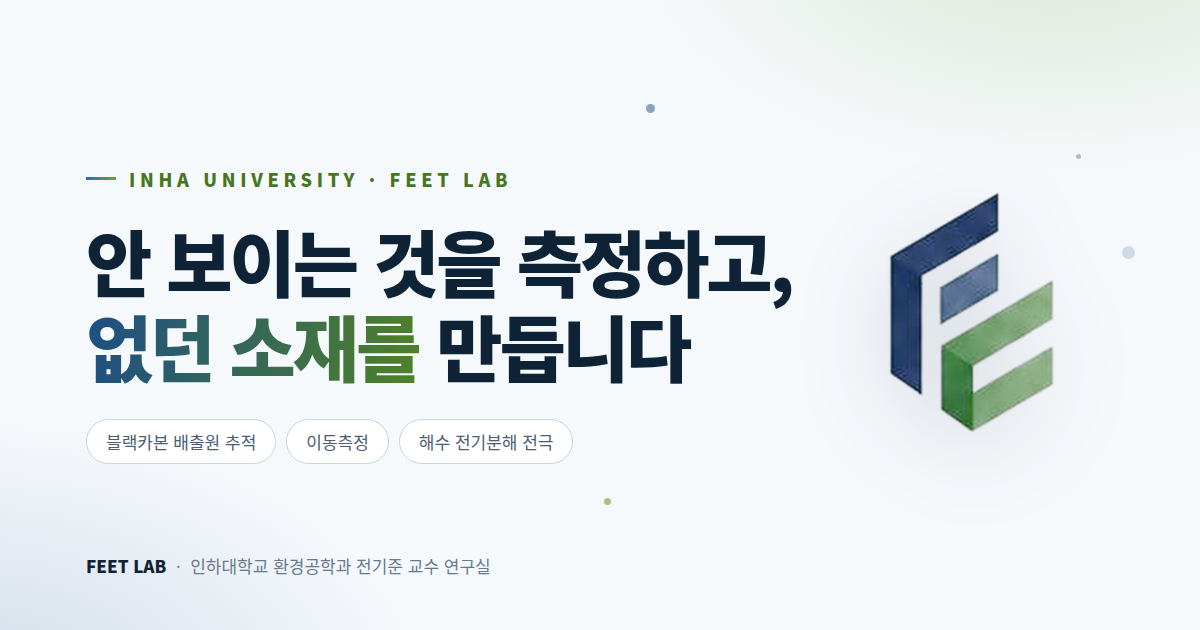
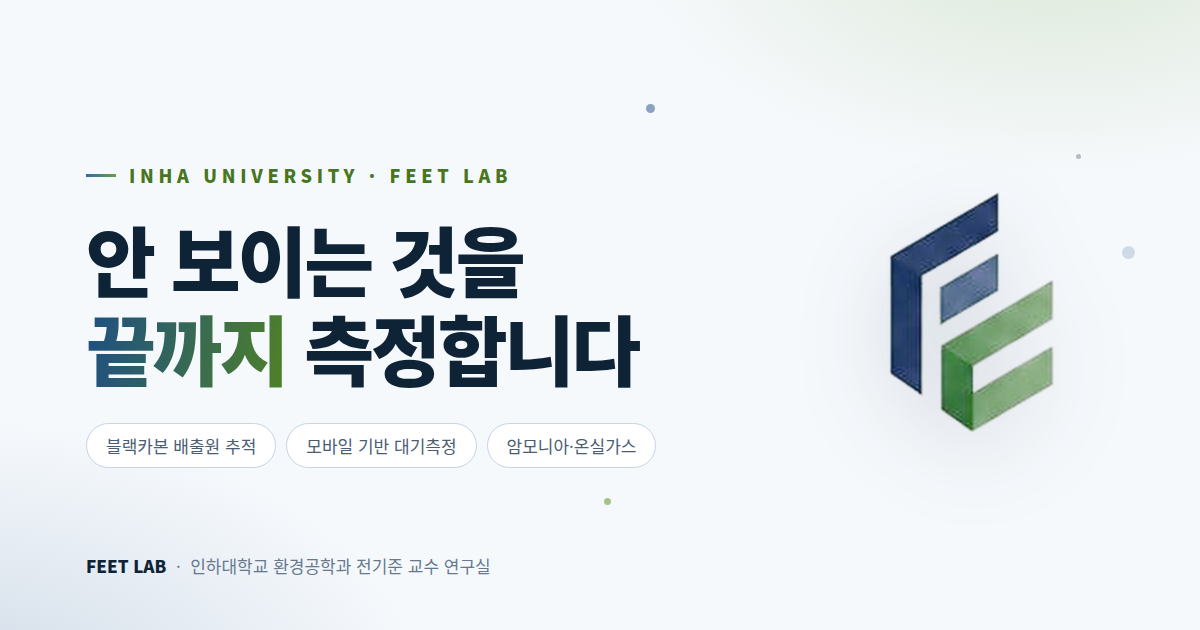
Add files via upload

diff --git a/index.html b/index.html
@@ -4,10 +4,10 @@
 <meta charset="UTF-8">
 <meta name="viewport" content="width=device-width, initial-scale=1.0">
 <title>FEET Lab — 인하대학교 전기준 교수 연구실</title>
-<meta name="description" content="인하대학교 FEET Lab — 대기 미세입자 측정·추적 기술과 에너지·환경 소재를 연구합니다. 블랙카본 배출원 추적, 차량·드론 이동측정, 해수 전기분해 전극 개발.">
+<meta name="description" content="인하대학교 FEET Lab — 대기 미세입자를 측정하고 추적하는 연구실. 블랙카본 배출원 추적, 모바일 기반 대기측정, 암모니아·온실가스 고해상도 측정.">
 <meta property="og:type" content="website">
 <meta property="og:title" content="FEET Lab — 인하대학교 전기준 교수 연구실">
-<meta property="og:description" content="대기 미세입자 측정부터 수소 생산 소재까지 — 인하대학교 환경공학과 FEET 연구실.">
+<meta property="og:description" content="공기 속 미세입자를 끝까지 추적하는 인하대학교 환경공학과 FEET 연구실.">
 <meta property="og:image" content="https://REPLACE-ME.github.io/feet-lab/images/og.png">
 <meta property="og:url" content="https://REPLACE-ME.github.io/feet-lab/">
 <link rel="icon" type="image/png" href="images/favicon.png">
@@ -46,9 +46,9 @@
     <div class="wrap hero-grid">
       <div>
         <p class="eyebrow">Inha University · FEET Lab</p>
-        <h1 class="h-xl">안 보이는 것을 측정하고,<br><span class="grad-txt">없던 소재를</span> 만듭니다</h1>
-        <p class="lead">대기 중 미세입자가 어디서 왔는지 추적하고, 물을 전기분해해 수소를 얻는 소재를 개발합니다.
-        인하대학교 환경공학과 FEET 연구실입니다.</p>
+        <h1 class="h-xl">안 보이는 것을<br><span class="grad-txt">끝까지</span> 측정합니다</h1>
+        <p class="lead">공기 속 미세입자가 어디서, 얼마나, 어떻게 움직이는지 추적합니다.
+        더 정확히 재는 기술을 직접 만드는 인하대학교 환경공학과 FEET 연구실입니다.</p>
         <div class="btns">
           <a class="btn btn-p" href="research.html">연구 둘러보기
             <svg viewBox="0 0 24 24" fill="none" stroke="currentColor" stroke-width="2.4" stroke-linecap="round" stroke-linejoin="round" aria-hidden="true"><path d="M5 12h13M13 6l6 6-6 6"/></svg></a>
@@ -64,8 +64,8 @@
     <div class="wrap hero-btm">
       <div class="hero-foot">
         <div><b>블랙카본</b>배출원 추적과 거동 규명</div>
-        <div><b>해수 전기분해</b>수소 생산용 전극 소재</div>
-        <div><b>이동측정</b>차량·드론 기반 대기 관측</div>
+        <div><b>모바일 기반 대기측정</b>이동형 플랫폼 실시간 관측</div>
+        <div><b>암모니아·온실가스</b>고해상도 측정 기술 국산화</div>
       </div>
       <p class="sub-note"><a href="https://spprmc.inha.ac.kr/" target="_blank" rel="noopener">수도권미세먼지연구관리센터</a>를 운영하고 있습니다</p>
     </div>
@@ -75,10 +75,10 @@
   <div class="kw" aria-hidden="true">
     <div class="kw-track">
       <ul>
-        <li>BLACK CARBON</li><li>PM2.5</li><li>AEROSOL</li><li>SERS</li><li>AMMONIA</li><li>GREENHOUSE GAS</li><li>ELECTROCATALYST</li><li>2D MATERIALS</li><li>WATER ELECTROLYSIS</li><li>ENV. SENSOR</li><li>FIELD MEASUREMENT</li><li>NANOPARTICLE</li>
+        <li>BLACK CARBON</li><li>PM2.5</li><li>AEROSOL</li><li>SERS</li><li>AMMONIA</li><li>GREENHOUSE GAS</li><li>ELECTROCATALYST</li><li>2D MATERIALS</li><li>WATER ELECTROLYSIS</li><li>ENV. SENSOR</li><li>MOBILE MONITORING</li><li>NANOPARTICLE</li>
       </ul>
       <ul>
-        <li>BLACK CARBON</li><li>PM2.5</li><li>AEROSOL</li><li>SERS</li><li>AMMONIA</li><li>GREENHOUSE GAS</li><li>ELECTROCATALYST</li><li>2D MATERIALS</li><li>WATER ELECTROLYSIS</li><li>ENV. SENSOR</li><li>FIELD MEASUREMENT</li><li>NANOPARTICLE</li>
+        <li>BLACK CARBON</li><li>PM2.5</li><li>AEROSOL</li><li>SERS</li><li>AMMONIA</li><li>GREENHOUSE GAS</li><li>ELECTROCATALYST</li><li>2D MATERIALS</li><li>WATER ELECTROLYSIS</li><li>ENV. SENSOR</li><li>MOBILE MONITORING</li><li>NANOPARTICLE</li>
       </ul>
     </div>
   </div>
@@ -89,23 +89,23 @@
       <div class="sec-head rv">
         <p class="eyebrow">What we do</p>
         <h2 id="what-h" class="h-lg">연구는 크게 두 갈래로 갑니다</h2>
-        <p>대기를 측정하는 연구와 소재를 만드는 연구. 달라 보이지만 질문은 하나입니다 — 공기와 에너지를 어떻게 더 깨끗하게 만들 것인가.</p>
+        <p>공기를 재는 연구가 중심이고, 거기서 나온 문제의식이 소재 연구로 이어집니다. 질문은 하나입니다 — 공기와 에너지를 어떻게 더 깨끗하게 만들 것인가.</p>
       </div>
       <div class="pillars">
         <a class="pillar rv" href="research.html#atmosphere">
           <span class="ico"><svg viewBox="0 0 24 24" fill="none" stroke="#1D4E86" stroke-width="1.8" stroke-linecap="round"><path d="M3 8h9a3 3 0 1 0-3-3"/><path d="M3 13h14a3 3 0 1 1-3 3"/><path d="M3 18h6"/><circle cx="18.5" cy="7.5" r="1.4" fill="#6BA03A" stroke="none"/></svg></span>
           <span class="en">Atmosphere</span>
           <h3>공기 속 입자를 추적합니다</h3>
-          <p>블랙카본이 어느 배출원에서 나와 어떻게 움직이는지 밝혀냅니다. 차량과 드론으로 달리며 측정하는 이동 관측, 암모니아·온실가스를 고해상도로 측정하는 기술도 직접 개발합니다.</p>
-          <span class="tags"><i>블랙카본</i><i>이동측정</i><i>암모니아·온실가스</i><i>나노입자 분석</i></span>
+          <p>블랙카본이 어느 배출원에서 나와 어떻게 움직이는지 밝혀냅니다. 이동형 플랫폼으로 현장을 돌며 재는 모바일 기반 대기측정, 암모니아·온실가스를 고해상도로 측정하는 기술도 직접 개발합니다.</p>
+          <span class="tags"><i>블랙카본</i><i>모바일 대기측정</i><i>암모니아·온실가스</i><i>나노입자 분석</i></span>
           <span class="go">자세히 보기 →</span>
         </a>
         <a class="pillar rv" href="research.html#material">
           <span class="ico"><svg viewBox="0 0 24 24" fill="none" stroke="#6BA03A" stroke-width="1.8" stroke-linecap="round" stroke-linejoin="round"><path d="M12 2 20.5 7v10L12 22 3.5 17V7L12 2z"/><circle cx="12" cy="12" r="2.6" stroke="#1D4E86"/><path d="M12 4.6v4.8M12 14.6v4.8" stroke="#1D4E86"/></svg></span>
           <span class="en">Material</span>
-          <h3>환경 문제를 푸는 소재를 만듭니다</h3>
-          <p>단일 원자 수준에서 2차원 소재의 구조를 조절해, 해수를 전기분해하는 전극과 값싼 촉매, 오염물질을 현장에서 감지하는 센서를 개발합니다.</p>
-          <span class="tags"><i>해수 전기분해</i><i>전해 촉매</i><i>2차원 소재</i><i>환경센서</i></span>
+          <h3>측정에서 소재 연구로 이어집니다</h3>
+          <p>현장에서 오염물질을 감지하는 센서, 물을 전기분해하는 전극 촉매와 2차원 소재. 재면서 만난 문제를 소재로 풀어보는 두 번째 갈래입니다.</p>
+          <span class="tags"><i>환경센서</i><i>전해 촉매</i><i>2차원 소재</i><i>해수 전기분해</i></span>
           <span class="go">자세히 보기 →</span>
         </a>
       </div>
@@ -139,7 +139,7 @@
         <article class="proj rv">
           <span class="yr">2026 – 2030</span>
           <h3>대기배출원의 효율적 통합관리를 위한 고정·이동형 측정 플랫폼 기술 개발</h3>
-          <p>고정식 관측소와 이동 측정 차량을 하나로 묶어 배출원을 통합 관리합니다.</p>
+          <p>고정식 관측소와 모바일 측정을 하나로 묶어 배출원을 통합 관리합니다.</p>
         </article>
         <article class="proj rv">
           <span class="yr">2026 – 2029</span>
@@ -183,7 +183,7 @@
         </a>
         <a class="pub-mini rv" href="https://doi.org/10.1016/j.atmosenv.2026.121807" target="_blank" rel="noopener">
           <span class="y">2026 · ATMOS. ENVIRON.</span>
-          <span class="jr">차량·드론을 이용한 VOC 추적 관리</span>
+          <span class="jr">모바일 기반 VOC 추적 관리</span>
           <span class="ti"><em>Cheonwoong Kang</em> 외 · <em>Ki-Joon Jeon</em> 교신</span>
         </a>
       </div>

diff --git a/assets/style.css b/assets/style.css
@@ -137,7 +137,7 @@ section{padding:clamp(72px,9.5vw,124px) 0;position:relative}
 .btn-p:hover{transform:translateY(-2px);filter:brightness(1.08);box-shadow:0 16px 36px -12px rgba(29,78,134,.8)}
 .btn-g{background:#fff;color:var(--deep);border:1px solid var(--line-2);box-shadow:var(--sh)}
 .btn-g:hover{border-color:var(--navy);color:var(--navy-d);transform:translateY(-2px)}
-.btn-w{background:#fff;color:var(--navy-d);box-shadow:0 10px 26px -12px rgba(15,35,55,.5)}
+.btn-w{background:#fff;color:var(--navy-d);box-shadow:0 10px 26px -12px rgba(15,35,55,.45)}
 .btn-w:hover{transform:translateY(-2px);box-shadow:0 16px 36px -14px rgba(15,35,55,.6)}
 
 /* ---------- 히어로 ---------- */
@@ -251,21 +251,21 @@ section{padding:clamp(72px,9.5vw,124px) 0;position:relative}
 /* ---------- 숫자 (딥 밴드) ---------- */
 .stats{
   background:
-    radial-gradient(700px 320px at 16% 0%,rgba(46,107,174,.35),transparent 62%),
-    radial-gradient(700px 320px at 84% 100%,rgba(107,160,58,.26),transparent 62%),
-    var(--deep);
-  color:var(--on-deep);
+    radial-gradient(760px 340px at 14% 0%,rgba(29,78,134,.10),transparent 62%),
+    radial-gradient(760px 340px at 86% 100%,rgba(107,160,58,.10),transparent 62%),
+    var(--bg-2);
+  border-block:1px solid var(--line);
 }
 .stats-grid{display:grid;grid-template-columns:repeat(4,1fr);gap:24px}
-.stats-grid>div{padding:6px 4px;border-left:1px solid rgba(255,255,255,.12)}
+.stats-grid>div{padding:6px 4px;border-left:1px solid var(--line-2)}
 .stats-grid>div:first-child{border-left:0}
 .stats b{
   font-family:var(--disp);font-size:clamp(2.3rem,5vw,3.4rem);font-weight:700;
   display:block;letter-spacing:-.03em;line-height:1;margin-bottom:11px;
-  background:linear-gradient(105deg,#8CC0F5,#B5DE86);-webkit-background-clip:text;background-clip:text;color:transparent;
+  background:var(--grad);-webkit-background-clip:text;background-clip:text;color:transparent;
 }
-.stats span{font-size:.89rem;color:#C3D5E6;display:block}
-.stats small{display:block;font-size:.75rem;color:#8AA3BC;margin-top:3px}
+.stats span{font-size:.89rem;color:var(--sub);display:block;font-weight:600}
+.stats small{display:block;font-size:.75rem;color:var(--dim);margin-top:3px;font-weight:400}
 @media (max-width:760px){.stats-grid{grid-template-columns:repeat(2,1fr);gap:28px 20px}.stats-grid>div:nth-child(odd){border-left:0}}
 
 /* ---------- 과제 카드 ---------- */
@@ -386,16 +386,16 @@ section{padding:clamp(72px,9.5vw,124px) 0;position:relative}
 .band .btn{position:relative;z-index:1}
 
 /* ---------- 푸터 ---------- */
-footer{background:var(--deep);color:#93A9BF;padding:60px 0 40px;font-size:.89rem}
+footer{background:var(--bg-2);border-top:1px solid var(--line);color:var(--dim);padding:60px 0 40px;font-size:.89rem}
 .foot-in{display:flex;justify-content:space-between;gap:34px;flex-wrap:wrap}
-.foot-brand{display:flex;align-items:center;gap:11px;color:#fff;margin-bottom:14px}
-.foot-brand img{width:32px;height:auto;background:#fff;border-radius:8px;padding:3px}
+.foot-brand{display:flex;align-items:center;gap:11px;color:var(--deep);margin-bottom:14px}
+.foot-brand img{width:32px;height:auto}
 .foot-brand b{font-family:var(--disp);font-size:1.06rem;letter-spacing:.07em}
-footer a{color:#BDD1E4;display:inline-block;padding:11px 0;transition:color .18s}
-footer a:hover{color:#fff}
+footer a{color:var(--navy-d);font-weight:600;display:inline-block;padding:11px 0;transition:color .18s}
+footer a:hover{color:var(--green-t)}
 .foot-nav{display:flex;gap:22px;flex-wrap:wrap}
 .foot-nav a{min-height:44px;display:inline-flex;align-items:center}
-.foot-base{margin-top:32px;padding-top:24px;border-top:1px solid rgba(255,255,255,.12);font-size:.79rem;color:#6D849B}
+.foot-base{margin-top:32px;padding-top:24px;border-top:1px solid var(--line-2);font-size:.79rem;color:var(--dim)}
 
 /* ---------- 서브페이지 히어로 ---------- */
 .page-hero{
@@ -461,11 +461,12 @@ footer a:hover{color:#fff}
 }
 .prof-side{text-align:center}
 .prof-side .avatar{
-  width:152px;height:152px;border-radius:50%;margin:0 auto 20px;
+  width:186px;height:186px;border-radius:50%;margin:0 auto 22px;overflow:hidden;
   background:var(--grad);display:flex;align-items:center;justify-content:center;
   color:#fff;font-family:var(--disp);font-size:2.6rem;font-weight:700;
-  box-shadow:0 16px 36px -14px rgba(29,78,134,.7);
+  box-shadow:0 0 0 5px #fff, 0 0 0 6px var(--line-2), 0 18px 40px -16px rgba(19,33,51,.4);
 }
+.prof-side .avatar img{width:100%;height:100%;object-fit:cover;display:block}
 .prof-side h2{font-size:1.5rem}
 .prof-side .role{color:var(--sub);font-size:.91rem;margin:7px 0 12px}
 .prof-side .role a{color:var(--navy-d);font-weight:600;display:inline-flex;align-items:center;min-height:44px}
@@ -493,10 +494,14 @@ footer a:hover{color:#fff}
 }
 .person:hover{transform:translateY(-4px);box-shadow:var(--sh-h);border-color:var(--line-2)}
 .person .av{
-  width:66px;height:66px;border-radius:50%;margin:0 auto 13px;color:#fff;
+  width:96px;height:96px;border-radius:50%;margin:0 auto 14px;color:#fff;overflow:hidden;
   display:flex;align-items:center;justify-content:center;
-  font-family:var(--disp);font-weight:700;font-size:1.28rem;
+  font-family:var(--disp);font-weight:700;font-size:1.6rem;
+  box-shadow:0 0 0 3px #fff, 0 0 0 4px var(--line-2);
+  transition:box-shadow .24s,transform .24s;
 }
+.person .av img{width:100%;height:100%;object-fit:cover;display:block}
+.person:hover .av{box-shadow:0 0 0 3px #fff, 0 0 0 4px var(--green);transform:scale(1.03)}
 .av.c1{background:linear-gradient(140deg,#1D4E86,#3D7DC4)}
 .av.c2{background:linear-gradient(140deg,#4F8226,#78B043)}
 .av.c3{background:linear-gradient(140deg,#146D8C,#2C9CB8)}
@@ -530,16 +535,17 @@ footer a:hover{color:#fff}
 .join-card p{font-size:.91rem;color:var(--sub)}
 @media (max-width:840px){.join-grid{grid-template-columns:1fr}}
 .mailbox{
-  position:relative;overflow:hidden;background:var(--deep);color:var(--on-deep);
+  position:relative;overflow:hidden;background:var(--card);color:var(--sub);
+  border:1px solid var(--line-2);box-shadow:var(--sh-h);
   border-radius:24px;padding:clamp(28px,4vw,46px);margin-top:46px;
   display:grid;grid-template-columns:1fr auto;gap:28px;align-items:center;
 }
-.mailbox h3{font-size:1.28rem;color:#fff;margin-bottom:11px}
-.mailbox p{font-size:.91rem;color:#9FB6CC}
+.mailbox h3{font-size:1.28rem;color:var(--deep);margin-bottom:11px}
+.mailbox p{font-size:.91rem;color:var(--dim)}
 .mailbox pre{
-  margin-top:19px;background:rgba(255,255,255,.06);border:1px solid rgba(255,255,255,.14);
+  margin-top:19px;background:var(--bg-2);border:1px solid var(--line);
   border-radius:15px;padding:20px 22px;font-size:.85rem;line-height:1.85;
-  font-family:var(--body);white-space:pre-wrap;color:#DCE7F2;
+  font-family:var(--body);white-space:pre-wrap;color:var(--ink);
 }
 .mailbox .sl::before{display:none}
 @media (max-width:840px){.mailbox{grid-template-columns:1fr}}

diff --git a/people.html b/people.html
@@ -59,7 +59,7 @@
       </div>
       <div class="prof-card rv">
         <div class="prof-side">
-          <div class="avatar" aria-hidden="true">전</div>
+          <div class="avatar"><img src="images/people/prof-jeon.jpg" alt="전기준 교수" width="186" height="186" loading="lazy"></div>
           <h2>전기준 <span style="font-family:var(--disp);font-size:1rem;color:var(--dim);font-weight:500">Kijoon Jeon</span></h2>
           <p class="role">인하대학교 환경공학과 교수<br><a href="https://spprmc.inha.ac.kr/" target="_blank" rel="noopener">수도권미세먼지연구관리센터</a> 센터장</p>
           <a href="mailto:kjjeon@inha.ac.kr">kjjeon@inha.ac.kr</a>
@@ -106,13 +106,13 @@
             <a href="mailto:hanslife@inha.ac.kr">hanslife@inha.ac.kr</a>
           </div>
           <div class="person rv">
-            <div class="av c3" aria-hidden="true">YL</div>
+            <div class="av"><img src="images/people/yen-le.jpg" alt="Yen Thi-Hoang Le" width="96" height="96" loading="lazy"></div>
             <h3>Yen Thi-Hoang Le</h3>
             <p class="role">수석연구원</p>
             <a href="mailto:hoangyen@inha.ac.kr">hoangyen@inha.ac.kr</a>
           </div>
           <div class="person rv">
-            <div class="av c4" aria-hidden="true">MO</div>
+            <div class="av"><img src="images/people/minhee-oh.jpg" alt="Minhee Oh" width="96" height="96" loading="lazy"></div>
             <h3>Minhee Oh</h3>
             <p class="role">행정 · 사무</p>
             <span style="font-size:.76rem;color:var(--dim)">연구실 행정 담당</span>
@@ -125,7 +125,7 @@
         <p>박사과정부터 석사과정까지, 연구실의 오늘을 만들어 가는 사람들</p>
         <div class="people-grid">
           <div class="person rv">
-            <div class="av c2" aria-hidden="true">CK</div>
+            <div class="av"><img src="images/people/cheonwoong-kang.jpg" alt="Cheonwoong Kang" width="96" height="96" loading="lazy"></div>
             <h3>Cheonwoong Kang</h3>
             <p class="role">박사과정</p>
             <a href="mailto:cwkang0708@gmail.com">cwkang0708@gmail.com</a>
@@ -137,37 +137,37 @@
             <a href="mailto:parkjh458@inha.edu">parkjh458@inha.edu</a>
           </div>
           <div class="person rv">
-            <div class="av c4" aria-hidden="true">GB</div>
+            <div class="av"><img src="images/people/ginam-bae.jpg" alt="Ginam Bae" width="96" height="96" loading="lazy"></div>
             <h3>Ginam Bae</h3>
             <p class="role">석·박사 통합과정</p>
             <a href="mailto:qaes1288@gmail.com">qaes1288@gmail.com</a>
           </div>
           <div class="person rv">
-            <div class="av c3" aria-hidden="true">JY</div>
+            <div class="av"><img src="images/people/junhyeok-yoon.jpg" alt="Junhyeok Yoon" width="96" height="96" loading="lazy"></div>
             <h3>Junhyeok Yoon</h3>
             <p class="role">석사과정</p>
             <a href="mailto:Feet_yoon@inha.edu">Feet_yoon@inha.edu</a>
           </div>
           <div class="person rv">
-            <div class="av c1" aria-hidden="true">SP</div>
+            <div class="av"><img src="images/people/seeun-park.jpg" alt="Seeun Park" width="96" height="96" loading="lazy"></div>
             <h3>Seeun Park</h3>
             <p class="role">석사과정</p>
             <a href="mailto:packse0117@naver.com">packse0117@naver.com</a>
           </div>
           <div class="person rv">
-            <div class="av c3" aria-hidden="true">JD</div>
+            <div class="av"><img src="images/people/dawun-jeong.jpg" alt="Jeong Dawun" width="96" height="96" loading="lazy"></div>
             <h3>Jeong Dawun</h3>
             <p class="role">석사과정</p>
             <a href="mailto:twinsmelissa@naver.com">twinsmelissa@naver.com</a>
           </div>
           <div class="person rv">
-            <div class="av c2" aria-hidden="true">HL</div>
+            <div class="av"><img src="images/people/heonyoung-lee.jpg" alt="Heonyoung Lee" width="96" height="96" loading="lazy"></div>
             <h3>Heonyoung Lee</h3>
             <p class="role">석사과정</p>
             <a href="mailto:hydream99@gmail.com">hydream99@gmail.com</a>
           </div>
           <div class="person rv">
-            <div class="av c4" aria-hidden="true">JS</div>
+            <div class="av"><img src="images/people/jiyoung-seo.jpg" alt="Jiyoung Seo" width="96" height="96" loading="lazy"></div>
             <h3>Jiyoung Seo</h3>
             <p class="role">석사과정</p>
             <a href="mailto:youngjee1415@gmail.com">youngjee1415@gmail.com</a>

diff --git a/research.html b/research.html
@@ -4,10 +4,10 @@
 <meta charset="UTF-8">
 <meta name="viewport" content="width=device-width, initial-scale=1.0">
 <title>연구 — FEET Lab, 인하대학교</title>
-<meta name="description" content="FEET Lab의 연구 — 블랙카본 배출원 추적, 차량·드론 이동측정, 암모니아·온실가스 고해상도 측정, 해수 전기분해 전극과 2차원 소재, 전해 촉매, 환경센서.">
+<meta name="description" content="FEET Lab의 연구 — 블랙카본 배출원 추적, 모바일 기반 대기측정, 암모니아·온실가스 고해상도 측정, 환경센서와 전해 촉매·2차원 소재.">
 <meta property="og:type" content="website">
 <meta property="og:title" content="연구 — FEET Lab, 인하대학교">
-<meta property="og:description" content="대기를 측정하는 Atmosphere, 소재를 만드는 Material — FEET 연구실의 연구 주제와 과제.">
+<meta property="og:description" content="공기 속 입자를 추적하는 Atmosphere, 거기서 이어지는 Material — FEET 연구실의 연구 주제와 과제.">
 <meta property="og:image" content="https://REPLACE-ME.github.io/feet-lab/images/og.png">
 <meta property="og:url" content="https://REPLACE-ME.github.io/feet-lab/research.html">
 <link rel="icon" type="image/png" href="images/favicon.png">
@@ -44,9 +44,9 @@
     <div class="wm" aria-hidden="true">RESEARCH</div>
     <div class="wrap">
       <p class="eyebrow">Research</p>
-      <h1 id="ph-h">대기를 측정하고, <span class="grad-txt">소재를 만듭니다</span></h1>
-      <p class="lead">연구는 두 갈래로 갑니다. 대기 중 입자를 측정하고 추적하는 <b>Atmosphere</b>,
-      환경 문제를 풀 소재를 개발하는 <b>Material</b>. 두 갈래가 만나는 자리에 우리가 풀려는 문제가 있습니다.</p>
+      <h1 id="ph-h">공기 속 입자를 <span class="grad-txt">추적합니다</span></h1>
+      <p class="lead">중심은 <b>Atmosphere</b> — 대기 중 입자를 재고 추적하는 연구입니다.
+      거기서 만난 문제를 소재로 풀어보는 <b>Material</b>이 두 번째 갈래로 이어집니다.</p>
     </div>
   </section>
 
@@ -70,8 +70,8 @@
         </article>
         <article class="topic rv">
           <span class="no">A—02</span>
-          <h3>고정식·이동형 측정 플랫폼</h3>
-          <p>한자리에서 관측하는 고정식 장비와 차량·드론에 실어 이동하며 측정하는 장비를 하나로 묶어, 대기배출원을 통합 관리하는 플랫폼을 만듭니다.</p>
+          <h3>고정식 + 모바일 기반 대기측정</h3>
+          <p>한자리에서 관측하는 고정식 장비와 현장을 돌며 재는 모바일 측정 장비를 하나로 묶어, 대기배출원을 통합 관리하는 플랫폼을 만듭니다.</p>
         </article>
         <article class="topic rv">
           <span class="no">A—03</span>
@@ -104,11 +104,11 @@
         <span class="ico"><svg viewBox="0 0 24 24" fill="none" stroke="#6BA03A" stroke-width="1.8" stroke-linecap="round" stroke-linejoin="round"><path d="M12 2 20.5 7v10L12 22 3.5 17V7L12 2z"/><circle cx="12" cy="12" r="2.6" stroke="#1D4E86"/><path d="M12 4.6v4.8M12 14.6v4.8" stroke="#1D4E86"/></svg></span>
         <div>
           <span class="en">Material</span>
-          <h2 id="mat-h">소재 · 환경 문제를 푸는 물질을 만듭니다</h2>
+          <h2 id="mat-h">소재 · 재면서 만난 문제를 소재로 풉니다</h2>
         </div>
       </div>
-      <p class="field-lead rv">깨끗한 에너지로 가는 길은 결국 소재가 엽니다. 원자 하나 단위의 구조 제어부터
-      값싸고 튼튼한 촉매까지 — 실험실에서 직접 합성하고 성능을 검증합니다.</p>
+      <p class="field-lead rv">측정만으로 끝나지 않는 문제가 있습니다. 오염물질을 현장에서 잡아내는 센서,
+      물을 전기분해하는 촉매와 2차원 소재 — 필요한 소재는 실험실에서 직접 합성하고 성능을 검증합니다.</p>
       <div class="topic-grid">
         <article class="topic rv">
           <span class="no">M—01</span>

diff --git a/join.html b/join.html
@@ -66,7 +66,7 @@
         <div class="join-card rv">
           <span class="tag">GRADUATE</span>
           <h3>석사 · 박사 · 통합과정</h3>
-          <p>대기 측정이든 소재 개발이든 하나를 깊게 파고들 대학원생. 진행 중인 과제 안에서 자기 연구 주제를 키워 갑니다.</p>
+          <p>대기 측정을 깊게 파고들 대학원생. 진행 중인 과제 안에서 자기 연구 주제를 키워 갑니다. 소재·센서 쪽에 관심 있는 분도 환영합니다.</p>
         </div>
         <div class="join-card rv">
           <span class="tag">POSTDOC</span>
@@ -83,7 +83,7 @@
           <pre id="mail-tpl">제목: [연구실 문의] 이름 / 학과·학년
 
 1. 이름과 소속 (학과, 학년 또는 과정)
-2. 관심 분야 (대기 측정 / 에너지 소재 / 아직 모르겠음 — 다 괜찮아요)
+2. 관심 분야 (대기 측정 / 소재·센서 / 아직 모르겠음 — 다 괜찮아요)
 3. 하고 싶은 것 (학부연구생 / 대학원 진학 / 박사후연구원)
 4. 궁금한 점</pre>
         </div>
